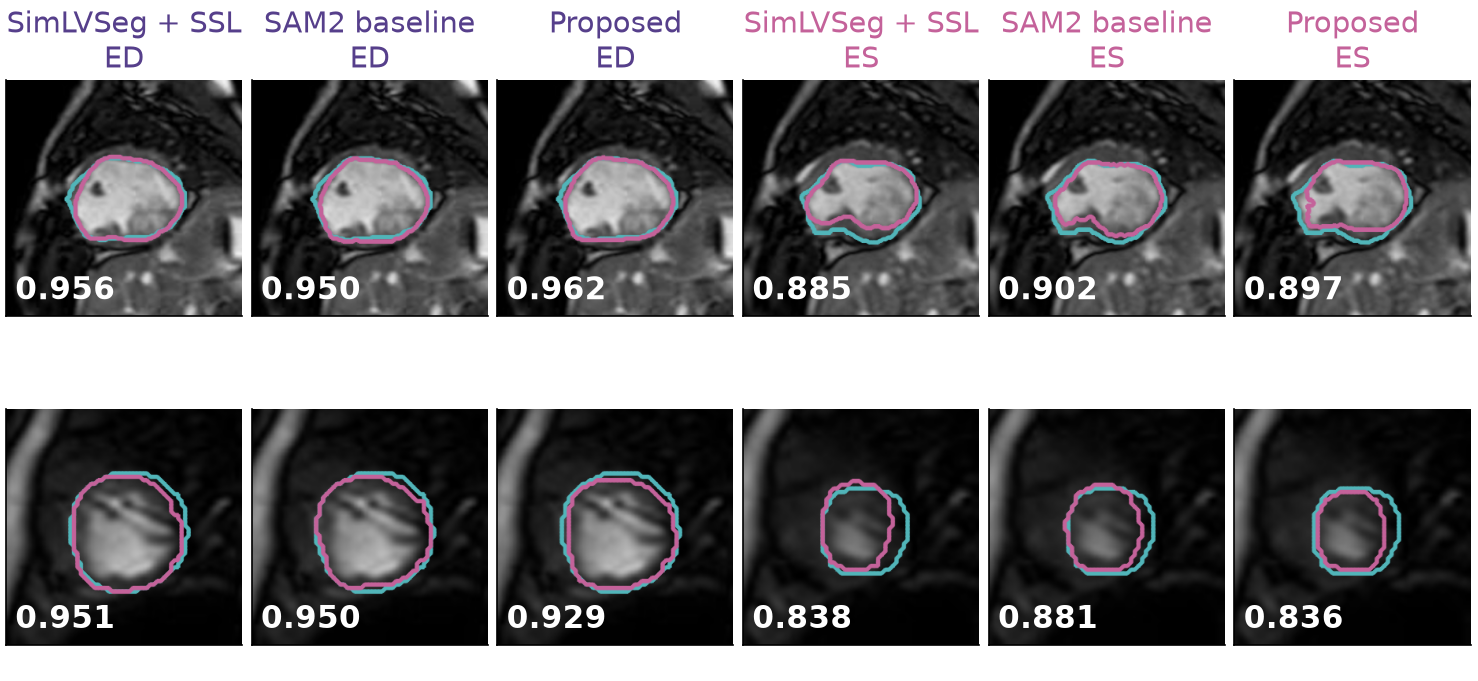
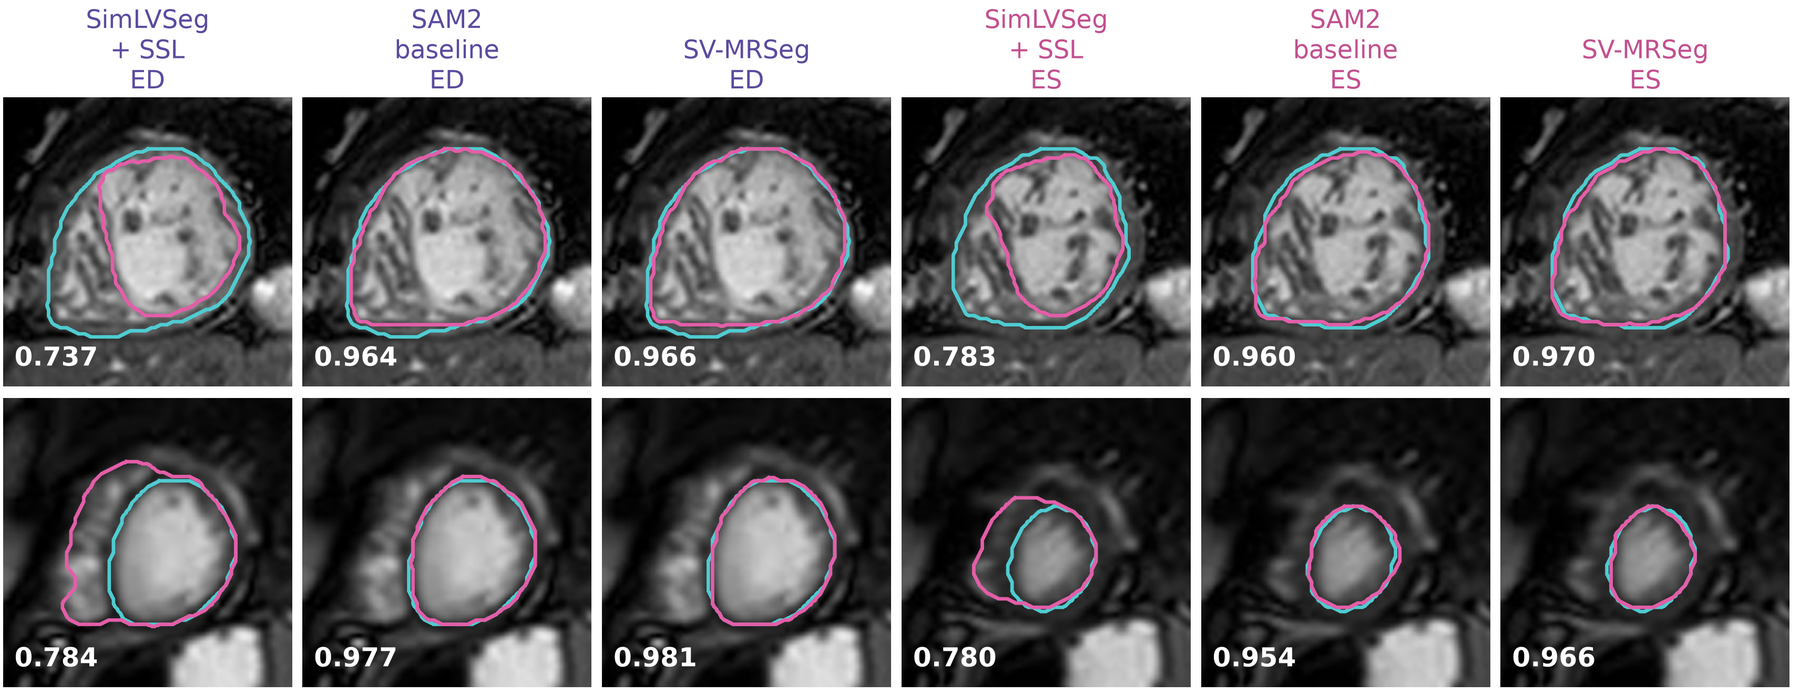
261030

diff --git a/index.html b/index.html
@@ -414,8 +414,8 @@ footer { color: var(--muted); font-size: 13px; font-family: var(--font-mono); bo
         <div class="rcard-side">
           <div class="project-tag">Cardiac segmentation<br>single ventricle</div>
               <figure class="fig">
-                <img src="img/svmrseg_qual.png" alt="Short-axis cine test slices with manual contours in light blue and predictions in magenta for SimLVSeg with SSL, the SAM2 baseline and SV-MRSeg at end-diastole and end-systole. Dice ranges from 0.84 to 0.96." loading="lazy">
-                <figcaption>Test slices at the median (top) and 25th-percentile (bottom) SV-MRSeg Dice, at end-diastole (ED) and end-systole (ES). Light blue: manual contour; magenta: prediction; number: Dice.</figcaption>
+                <img src="img/svmrseg_qual.png" alt="Short-axis cine slices from an HLHS and a DORV patient with manual contours in light blue and predictions in magenta for SimLVSeg with SSL, the SAM2 baseline and SV-MRSeg at end-diastole and end-systole. SV-MRSeg reaches Dice 0.966 to 0.981; SimLVSeg with SSL drops to 0.74 to 0.78." loading="lazy">
+                <figcaption>Two test patients (HLHS, top; DORV, bottom) at end-diastole (ED) and end-systole (ES). Light blue: manual contour; magenta: prediction; number: Dice.</figcaption>
               </figure>
           <div class="chips">
             <span class="chip status">ISMRM 2027 &middot; submitted</span>
@@ -449,8 +449,8 @@ footer { color: var(--muted); font-size: 13px; font-family: var(--font-mono); bo
         <div class="rcard-side">
           <div class="project-tag">MR reconstruction<br>4D flow</div>
               <figure class="fig">
-                <img src="img/flow4d.png" alt="Aortic 4D flow slice, magnitude and velocity magnitude: the fully sampled reference, a training-matched baseline (SSIM 0.924) and the proposed JSSL reconstruction (SSIM 0.956); the baseline underestimates the high-velocity jet, the proposed result matches the reference." loading="lazy">
-                <figcaption>Magnitude (top) and velocity (bottom) of one aortic slice: reference, training-matched baseline, and ours. The baseline washes out the high-velocity jet; ours keeps it.</figcaption>
+                <img src="img/flow4d.png" alt="Aortic 4D flow slice, magnitude and velocity magnitude: the fully sampled reference, a training-matched baseline (SSIM 0.924, relative velocity error 0.457, angular error 22.9 degrees) and the proposed JSSL reconstruction (SSIM 0.956, relative velocity error 0.234, angular error 16.3 degrees); the baseline underestimates the high-velocity jet, the proposed result matches the reference." loading="lazy">
+                <figcaption>Magnitude (top) and velocity (bottom) of one aortic slice: reference, training-matched baseline, and ours. The baseline washes out the high-velocity jet; ours keeps it. Corner values: SSIM (magnitude), relative and angular velocity error (velocity).</figcaption>
               </figure>
           <div class="chips">
             <span class="chip status">MICCAI 2026 &middot; CMRx4DFlow</span>
